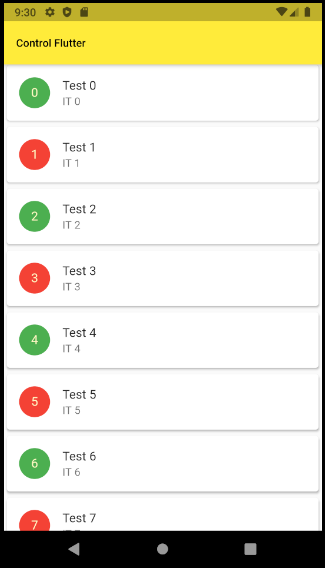
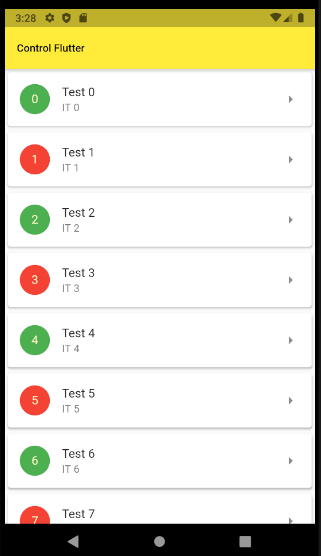
update listview

Changed region(s): [[0.0, 0.0, 1.0, 1.0], [0.0, 0.1835, 0.0312, 0.2446]]

diff --git a/control_flutter/lib/control_stateful_normal/listview_widgets.dart b/control_flutter/lib/control_stateful_normal/listview_widgets.dart
@@ -41,6 +41,7 @@ class _ListViewControlsState extends State<ListViewControls> {
             ),
             title: Text(this.people[position].name),
             subtitle: Text(this.people[position].job),
+            trailing: Icon(Icons.arrow_right),
             onTap: () {
               print('Tap on: $position');
             },

diff --git a/control_flutter/lib/main.dart b/control_flutter/lib/main.dart
@@ -48,7 +48,7 @@ class MyApp extends StatelessWidget {
             ),
           ),
         ),
-        body: StackLayoutWidgets(),
+        body: ListViewControls(),
       ),
     );
   }
